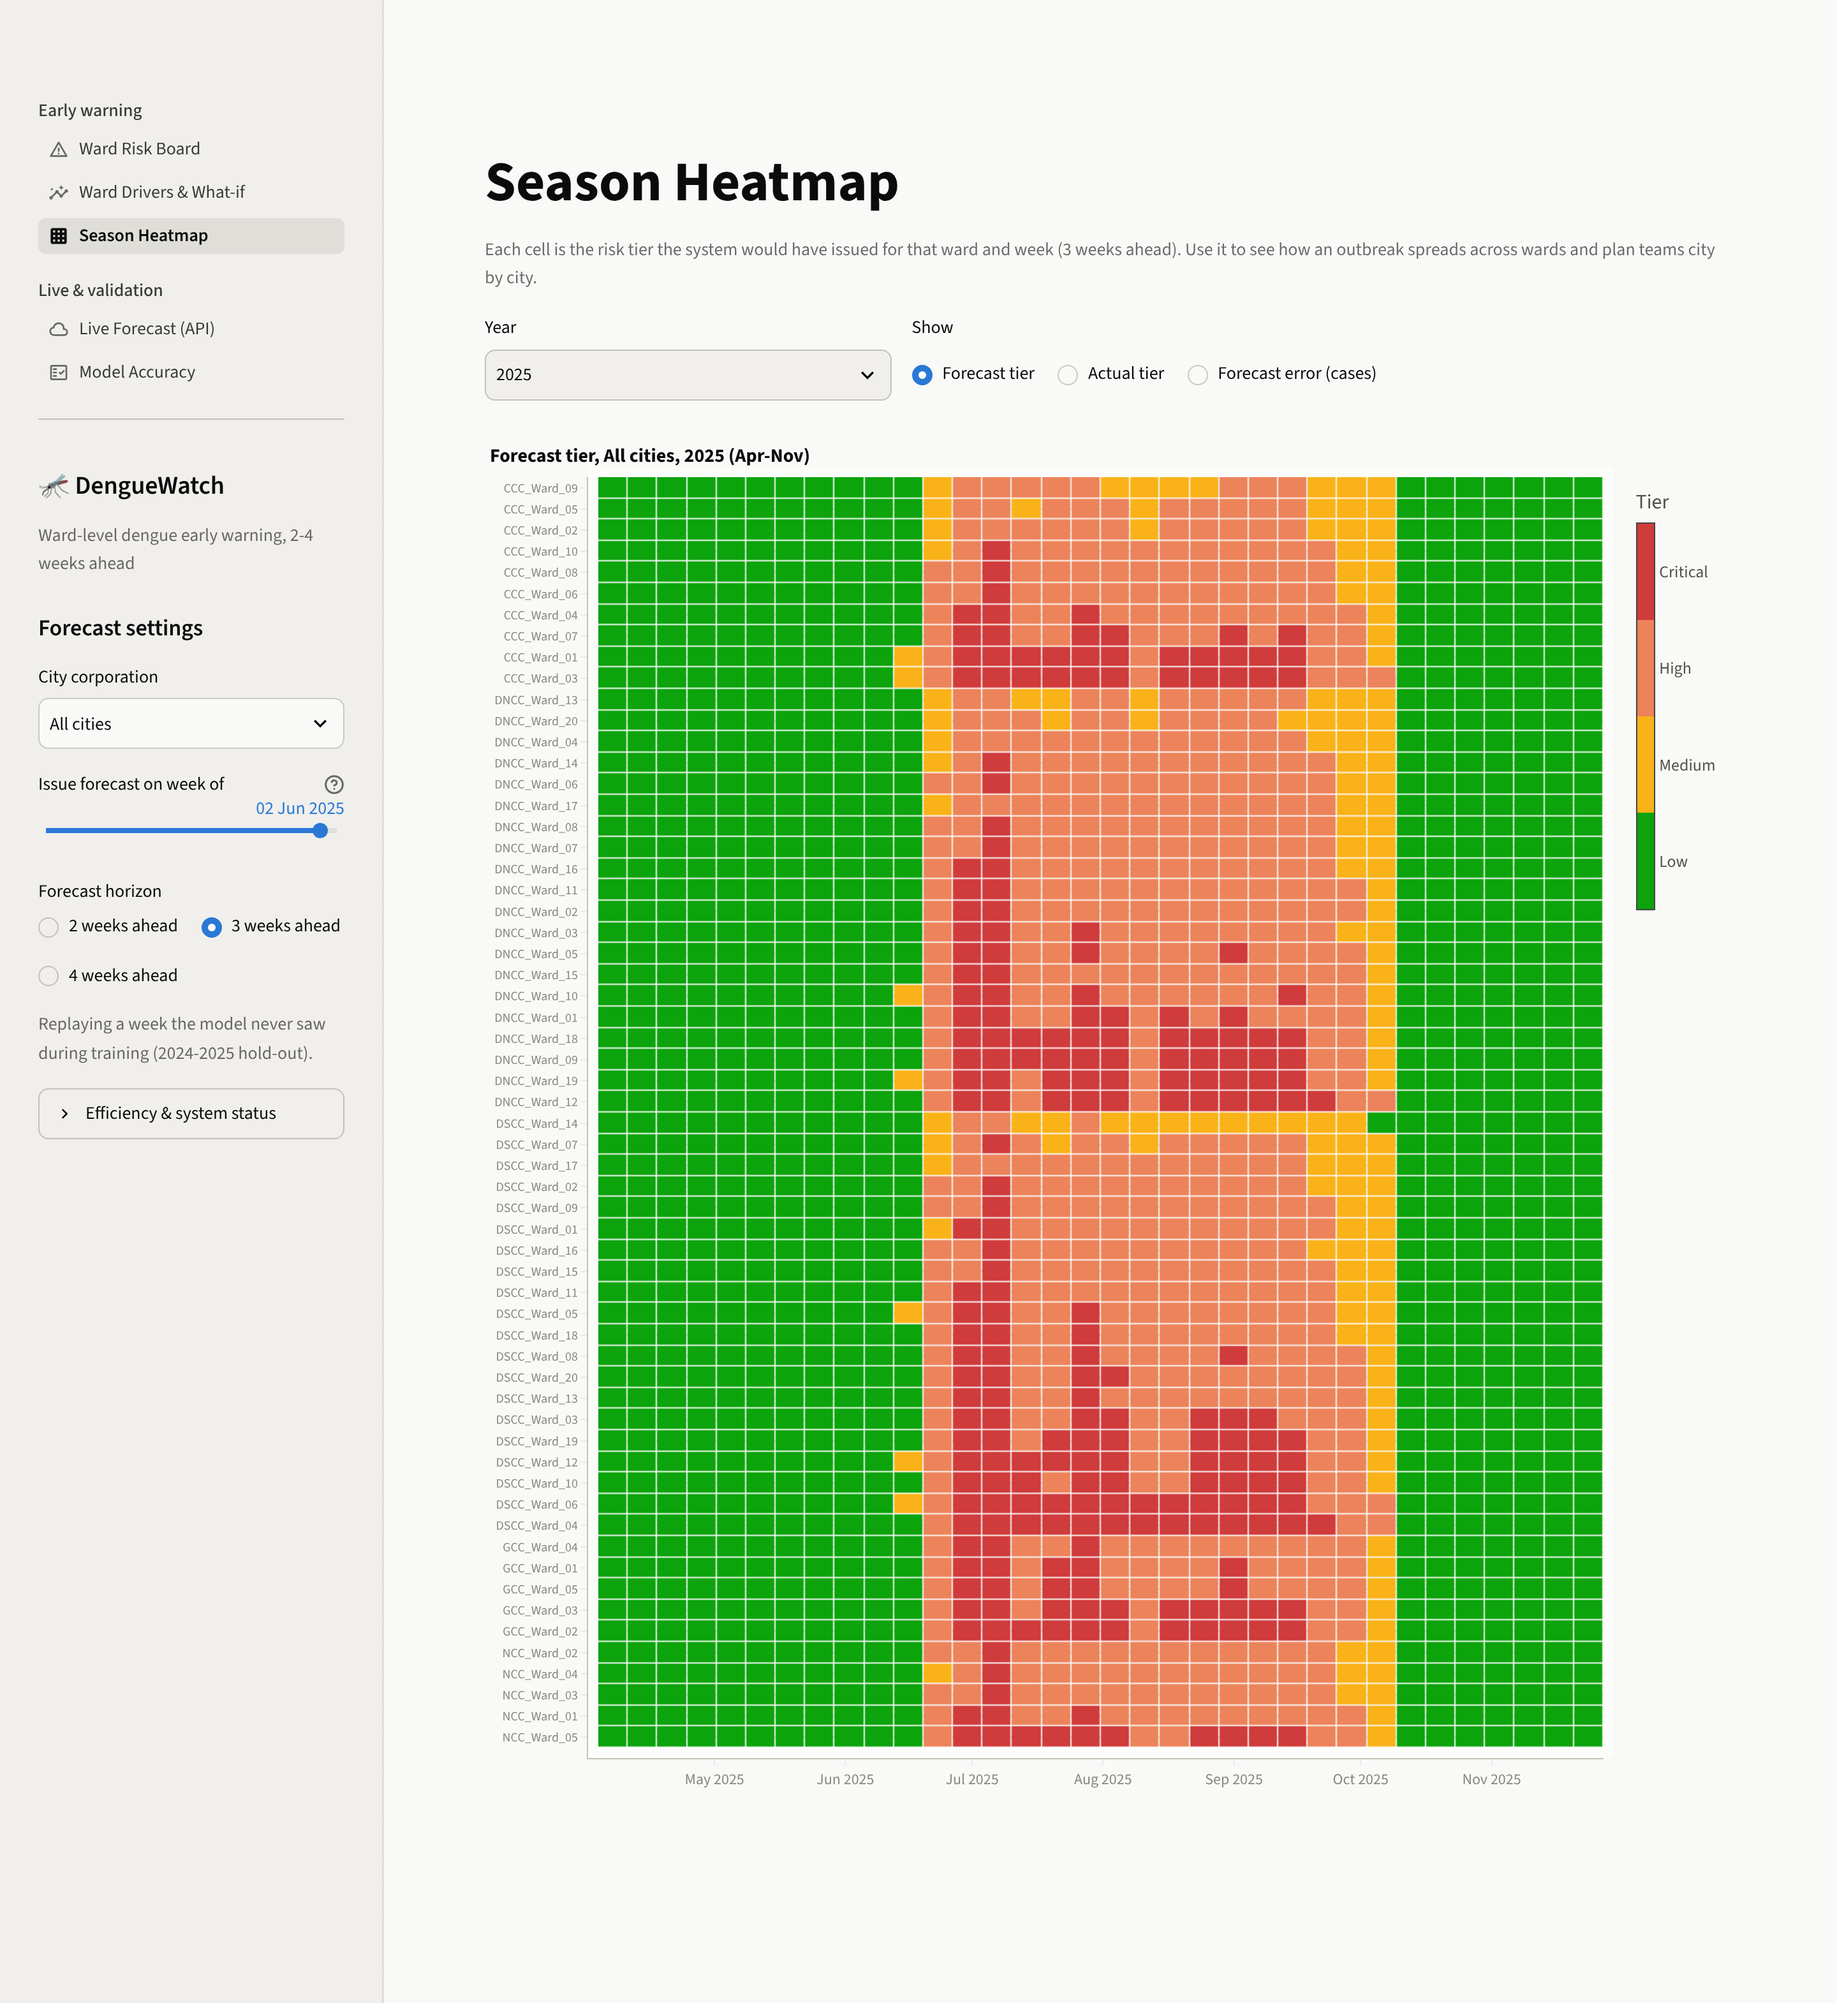
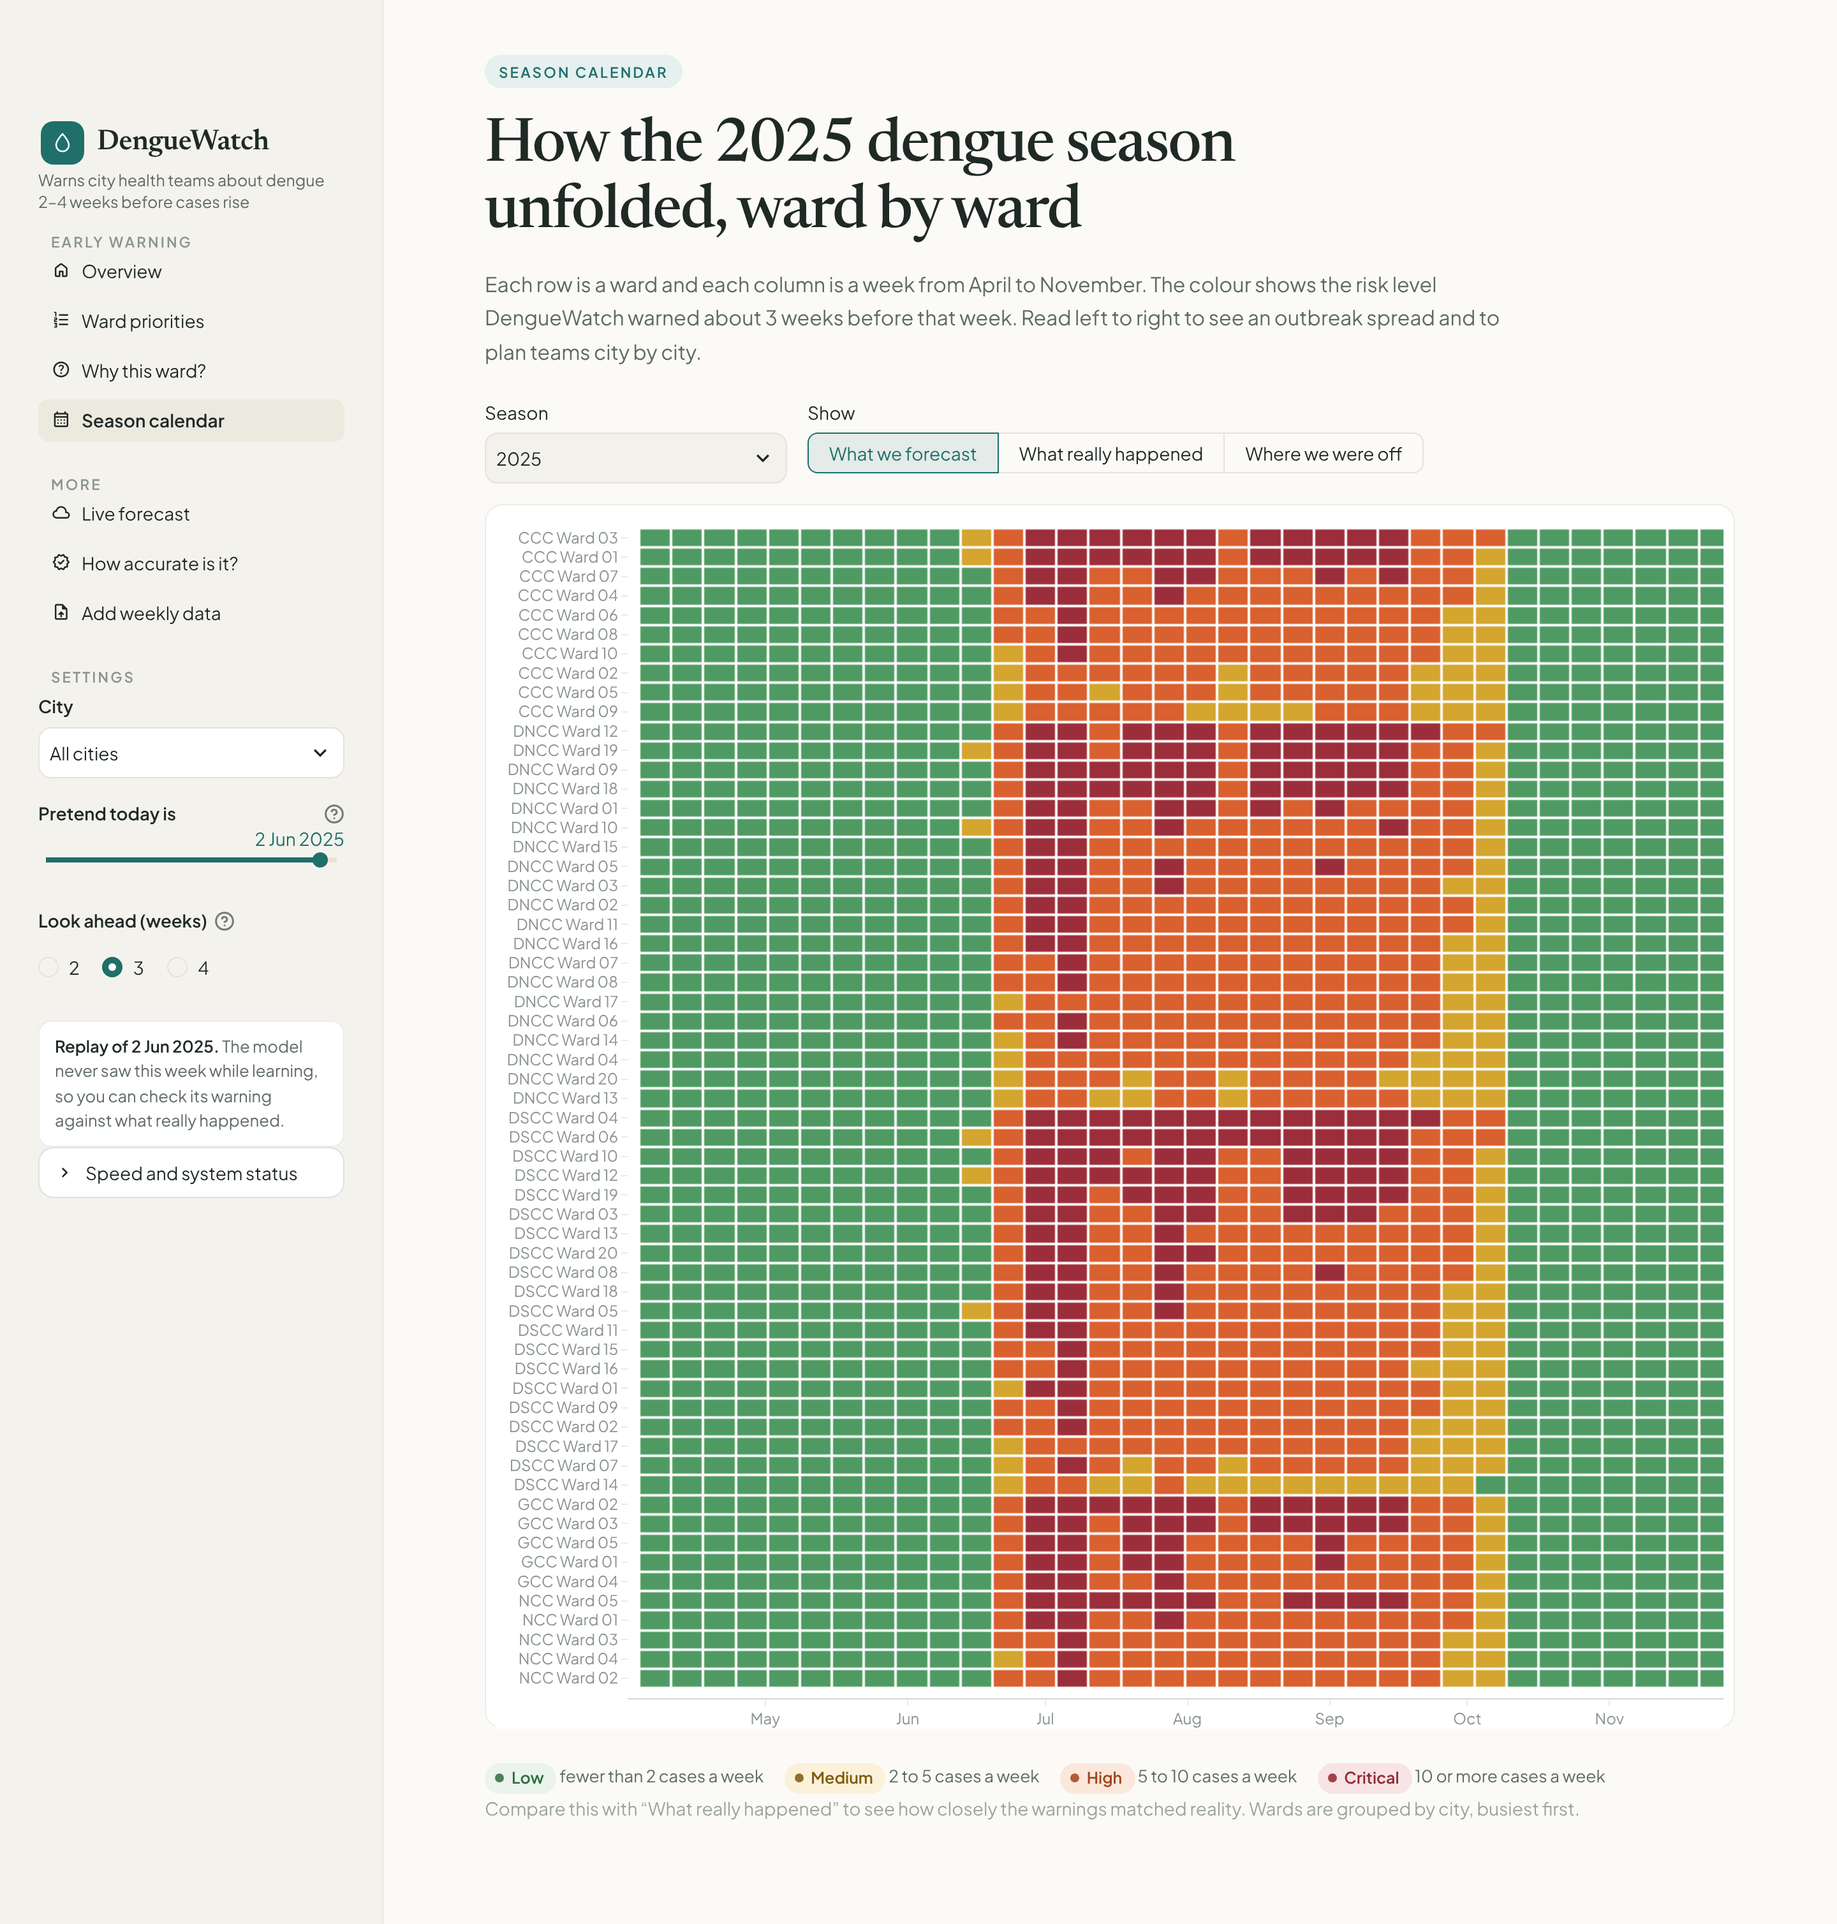
Docs: new screenshots and page names after the redesign

diff --git a/README.md b/README.md
@@ -6,7 +6,7 @@
 
 Built for the **EDU AI Engineering Hackathon 2026, Phase 1: "AI for Urban Dengue Outbreak"** by team **Vibe Engineers**.
 
-![Ward Risk Board](docs/screenshots/risk_board.png)
+![DengueWatch overview page](docs/screenshots/overview.png)
 
 ## Quick start (about 2 minutes)
 
@@ -31,7 +31,7 @@ Optional:
 ```bash
 cp .env.example .env        # (Windows: copy .env.example .env) then add GEMINI_API_KEY for AI-worded briefings
 python scripts/train.py     # rebuild features, evaluation (metrics.json) and models (~35 s)
-python -m pytest            # 32 tests: lag correctness, no leakage, explanations, retries/fallbacks, every page loads
+python -m pytest            # 34 tests: lag correctness, no leakage, explanations, retries/fallbacks, every page loads
 python scripts/ingest.py new_weeks.csv   # add new weekly data and retrain (--reset to undo)
 ```
 
@@ -41,12 +41,13 @@ Set `ALLOW_NETWORK=0` in `.env` to run fully offline.
 
 | Page | What an officer gets |
 |---|---|
-| **Ward Risk Board** | Pick city, week and horizon. All wards are ranked by forecast cases with 80% ranges and tiers. **Escalating** wards (Low/Medium today, High+ soon) are flagged. Includes an action briefing in **English or Bangla** and a CSV export. |
-| **Ward Drivers & What-if** | A waterfall showing how rainfall, humidity, temperature and ward vulnerability push the forecast above or below the seasonal norm; the "breeding clock" rain chart; a rain what-if slider; forecast-vs-actual track record. |
-| **Season Heatmap** | Every ward × every week of a season, coloured by forecast tier (or actual tier, or forecast error). |
-| **Live Forecast (API)** | The same model fed with this week's real and forecast weather from Open-Meteo: one API call for all cities, cached, with offline fallbacks. |
-| **Model Accuracy** | Chronological test results vs naive baselines, year-by-year backtest, lag-correlation evidence, tier confusion matrix. |
-| **Add Weekly Data** | Upload the latest ward reports (CSV). The file is checked, merged and the models retrain in about 15 s. Reset any time. |
+| **Overview** | The answer first: how many wards will reach high risk and when, a four-step picture of the rain-to-cases delay, each city at a glance, and the wards to act on first. |
+| **Ward priorities** | All wards ranked by expected cases with a likely range and risk level. Wards **getting worse** (low or medium today, high or critical soon) are flagged. Includes an action briefing in **English or Bangla** and a CSV export. |
+| **Why this ward?** | Plain bars showing how recent rain, humidity, temperature and drainage, crowding and sanitation push the forecast above or below normal for the season; a "rain now, cases later" chart; a rain what-if slider; the ward's forecast-vs-real track record. |
+| **Season calendar** | Every ward × every week of a season, coloured by forecast risk (or real risk, or forecast error). |
+| **Live forecast** | The same model fed with this week's real and forecast weather from Open-Meteo: one API call for all cities, cached, with offline fallbacks. |
+| **How accurate is it?** | Plain-language results on unseen years first, then the year-by-year backtest, lag evidence, baselines and confusion matrix for reviewers. |
+| **Add weekly data** | Upload the latest ward reports (CSV). The file is checked, merged and the models retrain in about 15 s. Reset any time. |
 
 The dashboard opens on **2 June 2025**, a week the model never saw during training. 56 of the 60 wards were still Low that week. The system flagged 46 wards as High for 23 June, and 52 of the 60 wards actually reached High or Critical.
 
@@ -71,6 +72,7 @@ Details, diagrams and the efficiency and failure-handling design are in **[ARCHI
 app.py                  Streamlit entry (navigation + shared controls)
 ui_common.py            cached engine, chart styling, sidebar
 views/                  one file per dashboard page
+static/fonts/           bundled fonts, so the design works offline
 src/dengue/
   config.py             all settings: horizons, tiers, split dates, network limits
   data.py               load + validate the dataset (local CSV, sheet fallback)
@@ -97,10 +99,10 @@ models/                 trained model bundle + evaluation metrics
 |---|---|---|
 | **Claude (Anthropic), via Claude Code** | AI coding assistant | Analysing the brief and dataset, planning the architecture, and writing most of the code, tests and documentation under the team's direction. The team reviewed, ran and can explain all code. |
 | **Google Gemini API** (`generativelanguage.googleapis.com`, default model `gemini-2.5-flash`) | LLM API, **optional, off by default** | Rewording the officer briefing in plain language from model numbers only. Used only if `GEMINI_API_KEY` is set; otherwise a template is used. |
-| **Open-Meteo Forecast API** (`api.open-meteo.com`) | Weather API, free, no key | Live weather for the Live Forecast page. |
+| **Open-Meteo Forecast API** (`api.open-meteo.com`) | Weather API, free, no key | Live weather for the Live forecast page. |
 | **Google Sheets CSV export** | Dataset source | Official hackathon dataset; downloaded only if `data/bangladesh_dengue.csv` is missing. |
 
-No other AI services or external APIs are used. Open-source libraries: pandas, NumPy, scikit-learn, joblib, PyArrow, Streamlit, Plotly, Requests, python-dotenv, pytest (see `requirements.txt`). No significant third-party code snippets were copied.
+No other AI services or external APIs are used. Open-source libraries: pandas, NumPy, scikit-learn, joblib, PyArrow, Streamlit, Plotly, Requests, python-dotenv, pytest (see `requirements.txt`). Fonts: Newsreader and Plus Jakarta Sans (SIL Open Font License, bundled in `static/fonts`). No significant third-party code snippets were copied.
 
 ## Limitations and honest notes
 

diff --git a/ARCHITECTURE.md b/ARCHITECTURE.md
@@ -88,6 +88,6 @@ All external calls go through `src/dengue/http.py`:
 
 ## 7. Scaling to a live system (Phase 2)
 
-- New weekly data: upload on the **Add Weekly Data** page or run `python scripts/ingest.py new_weeks.csv`. Rows are validated and stored in `data/updates.csv` (never overwriting the official file), then the models retrain on all data in about 15 s and the app reloads via the data hash. `--reset` restores the official dataset.
+- New weekly data: upload on the **Add weekly data** page or run `python scripts/ingest.py new_weeks.csv`. Rows are validated and stored in `data/updates.csv` (never overwriting the official file), then the models retrain on all data in about 15 s and the app reloads via the data hash. `--reset` restores the official dataset.
 - New wards: the model uses ward attributes, so new wards work without retraining the architecture.
 - New consumers: `Engine` in `src/dengue/engine.py` is UI-independent and can be wrapped in a REST endpoint or a weekly batch job that emails the priority list.
